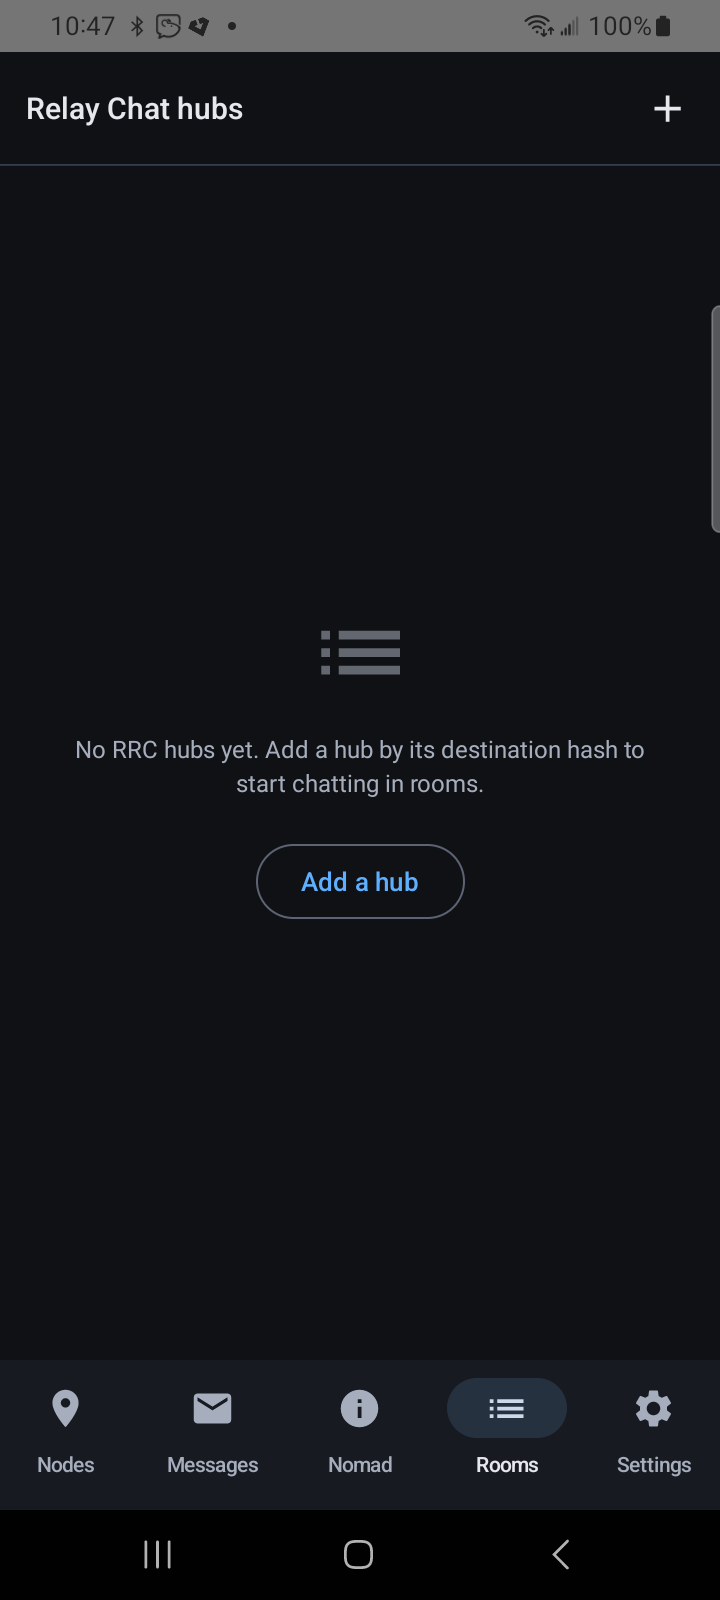
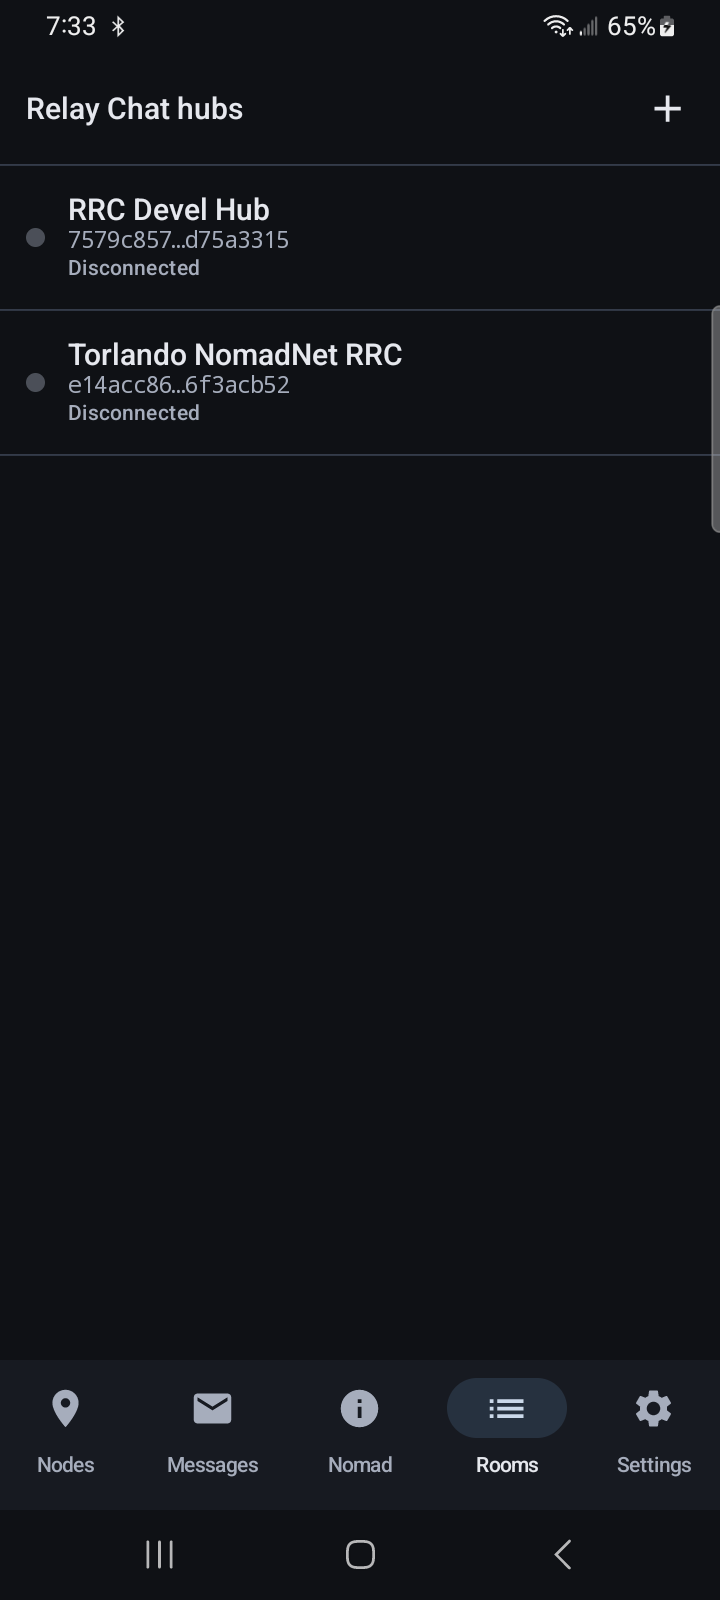
docs(screenshots): refresh Android captures + add detail-view shots
Captured fresh against the current build on a 720x1600 Samsung
(physical-resolution-matched to the landing page's declared
img sizes). Five new shots added beneath the six refreshed main
screens to show the long-press / overflow / slide-up surfaces:

  Refreshed (replace existing):
    nomad.png      — Nomad browser directory entry
    nodes.png      — Nodes pane, hash-coloured avatars + the new
                     split + / kebab header (ios-v1.0.77 parity)
    graph.png      — Force-directed Graph pane with the LXMF /
                     Relay / Non-LXMF legend
    messages.png   — Inbox with three hash-coloured avatar chips
    rooms.png      — Relay Chat hubs list (two test hubs)
    settings.png   — Six-section grouped layout

  New (detail views):
    conversation.png      — In-thread view (hash-avatar, swipe-
                            reply quote, image attachment,
                            reaction emoji on a bubble)
    bubble-menu.png       — Long-press a message → horizontal
                            tap-back row + Copy (ios-v1.0.76
                            parity)
    nodes-add-menu.png    — + tapped on Nodes header → Add by
                            hash / Scan QR code
    nodes-filter-menu.png — Kebab tapped on Nodes header →
                            filter chips (All / Contacts /
                            Messageable / Telemetry / RRC)
    destination-detail.png — Tap a Nodes row → slide-up sheet
[…]

diff --git a/README.md b/README.md
@@ -126,6 +126,12 @@ Captured live on the public Reticulum mesh.
 |---|---|---|---|---|---|
 | ![Nomad browser](docs/screenshots/nomad.png) | ![Nodes](docs/screenshots/nodes.png) | ![Graph](docs/screenshots/graph.png) | ![Messages](docs/screenshots/messages.png) | ![Rooms](docs/screenshots/rooms.png) | ![Settings](docs/screenshots/settings.png) |
 
+Detail views — long-press / overflow menus / slide-up sheets:
+
+| Conversation | Tap-back menu | Add destination | Filter menu | Detail sheet |
+|---|---|---|---|---|
+| ![Conversation thread](docs/screenshots/conversation.png) | ![Message long-press tap-back](docs/screenshots/bubble-menu.png) | ![Nodes + Add menu](docs/screenshots/nodes-add-menu.png) | ![Nodes filter menu](docs/screenshots/nodes-filter-menu.png) | ![Destination detail sheet](docs/screenshots/destination-detail.png) |
+
 ### iOS
 
 | Messages | Nomad | Graph |
